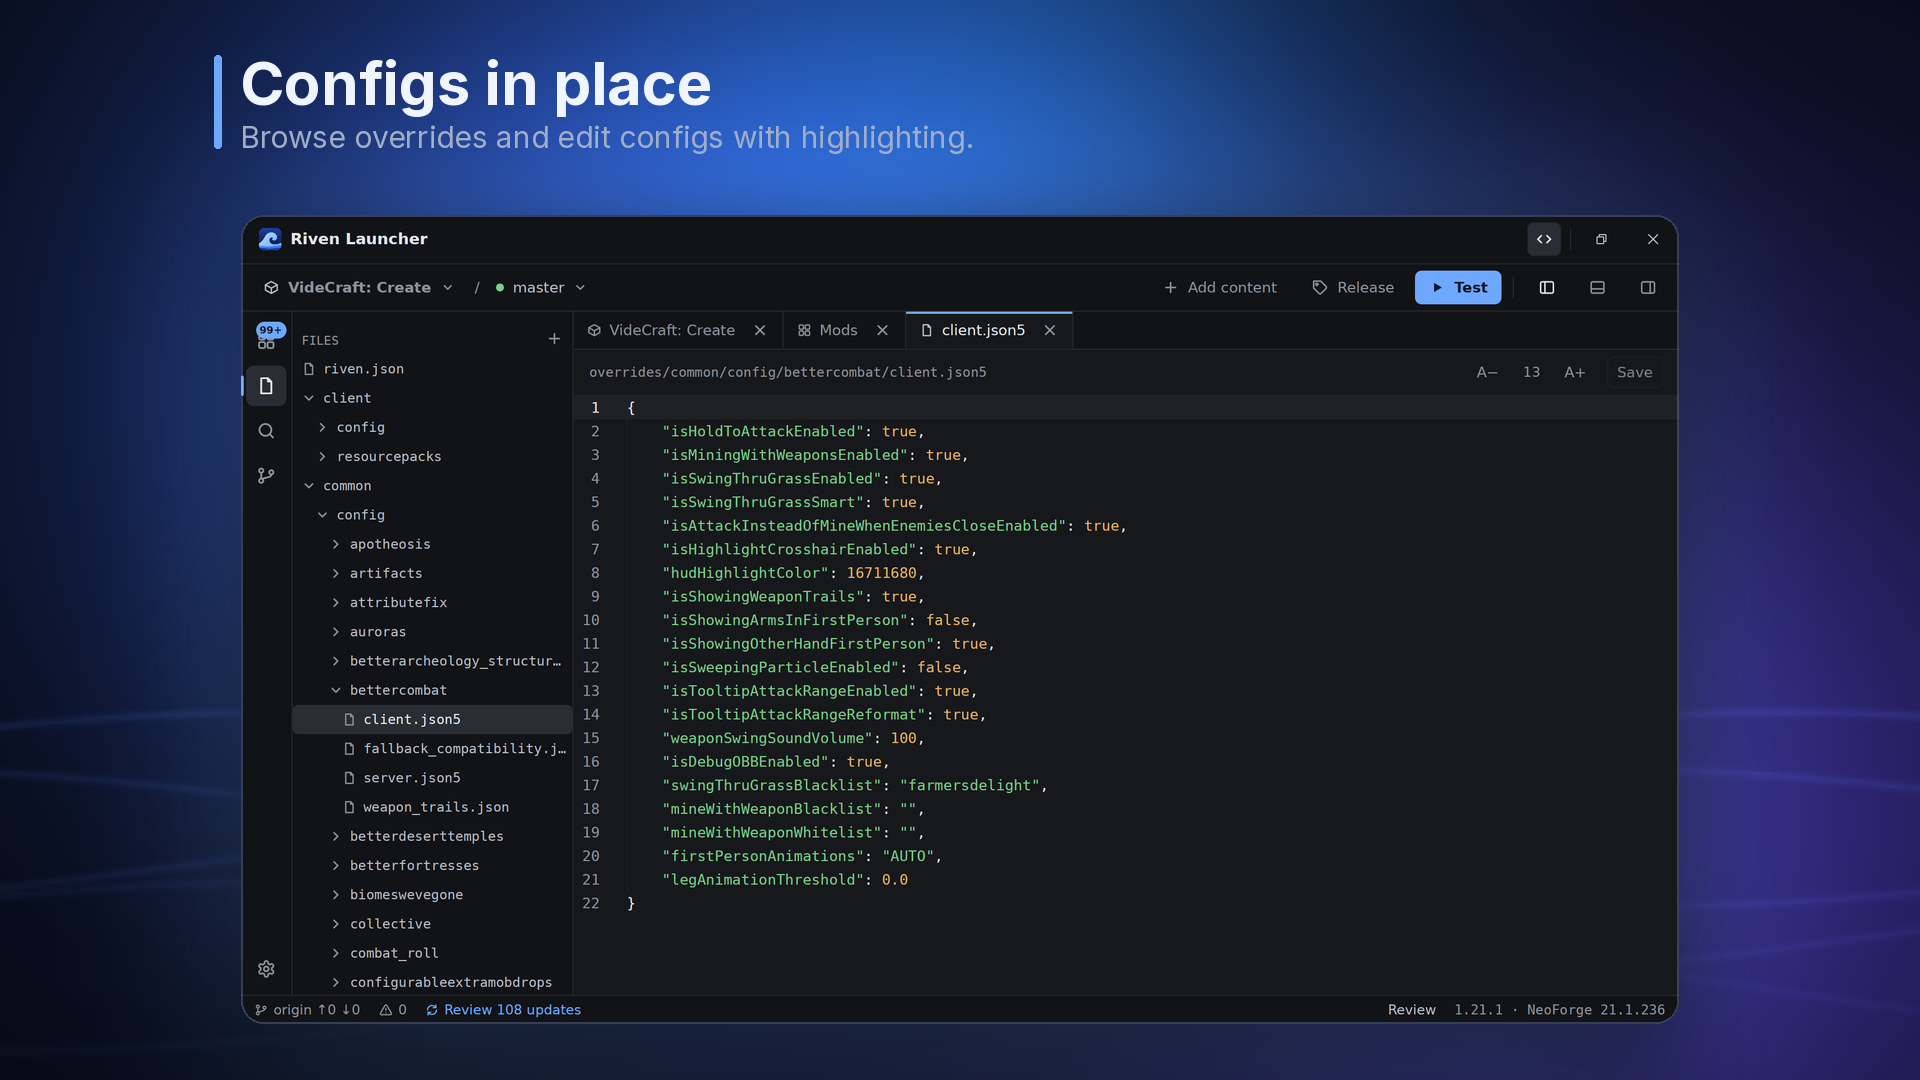
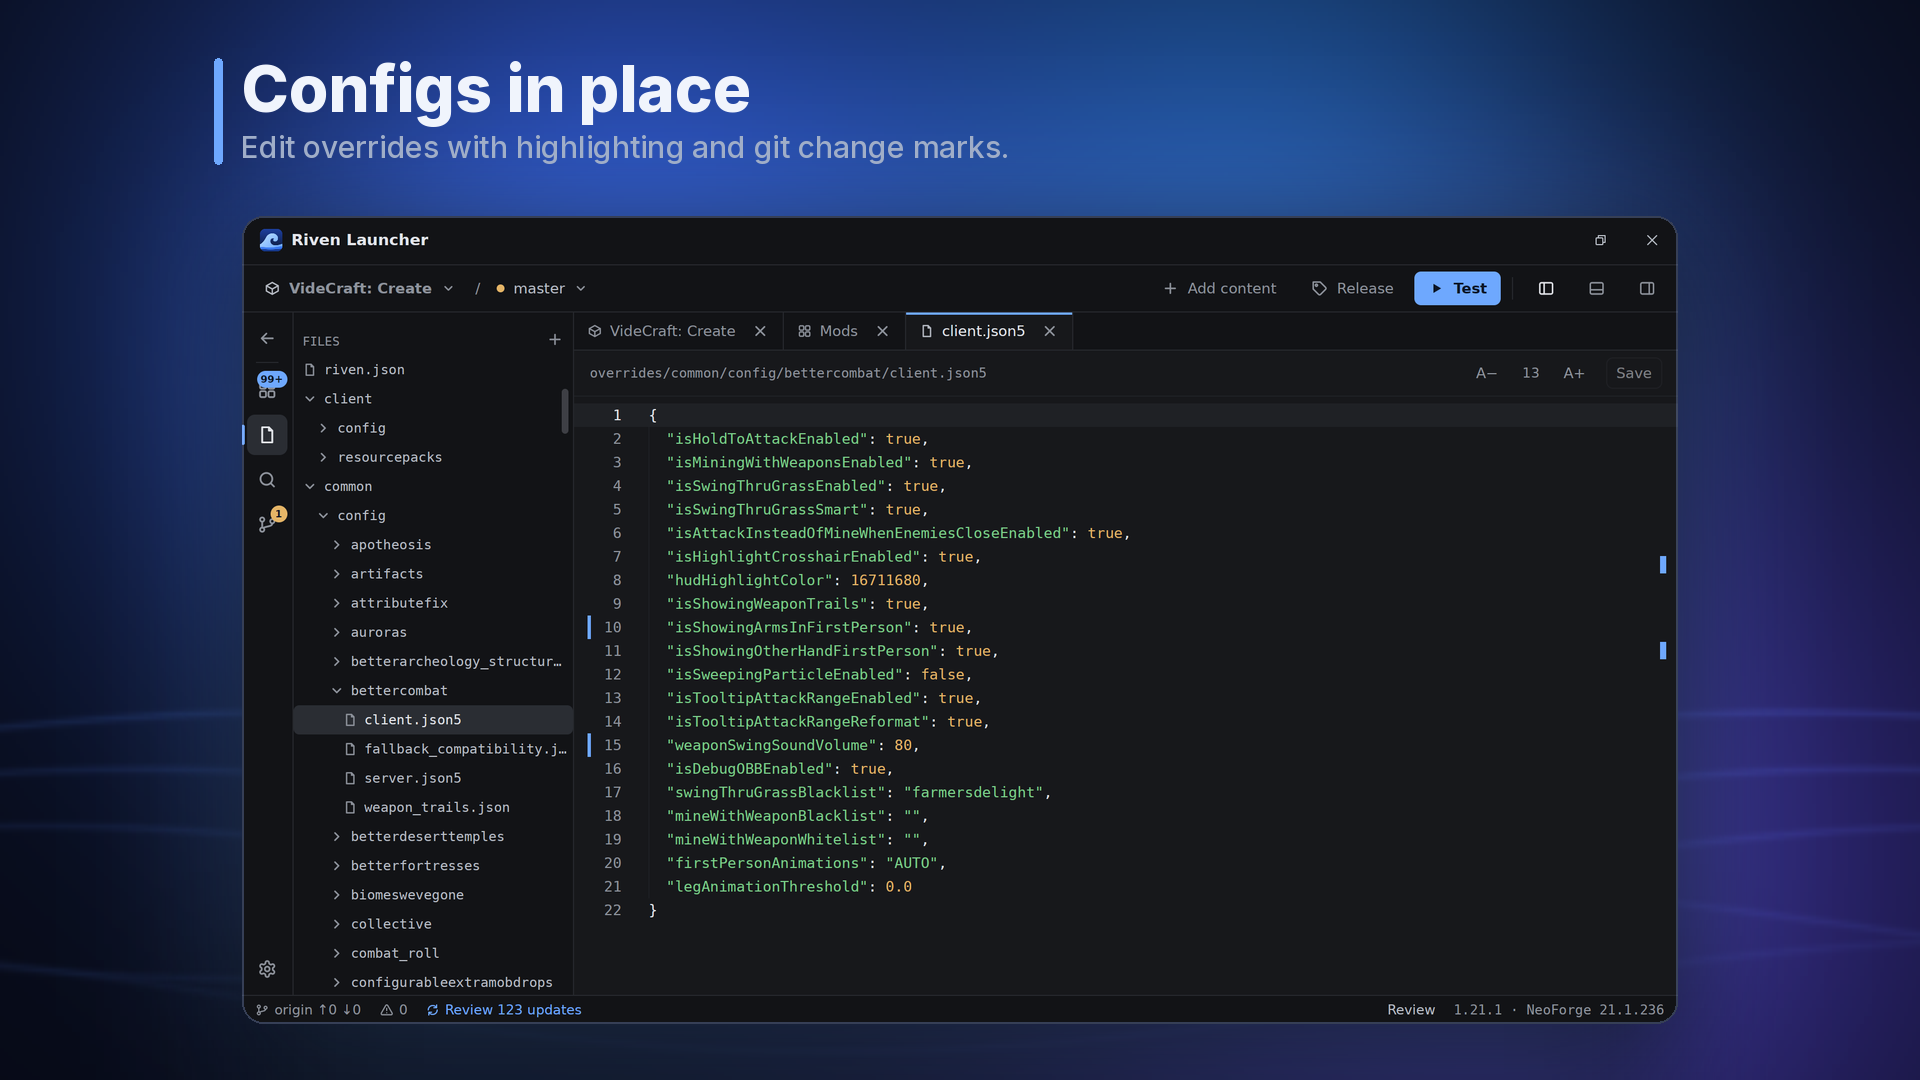
docs(readme): new showcase and live demo

diff --git a/README.md b/README.md
@@ -6,25 +6,26 @@
 
 A native Minecraft launcher and modpack toolkit in pure Rust — install, update and build packs from one app or one CLI.
 
-[![Chat on Discord](https://cdn.jsdelivr.net/npm/@intergrav/devins-badges@3/assets/cozy/social/discord-plural_vector.svg)](https://discord.gg/qNyybSSPm5)
+[![discord](https://cdn.jsdelivr.net/npm/@intergrav/devins-badges@3/assets/cozy/social/discord-plural_vector.svg)](https://discord.gg/qNyybSSPm5)
 [![github](https://cdn.jsdelivr.net/npm/@intergrav/devins-badges@3/assets/cozy/available/github_vector.svg)](https://github.com/BX-Team/Riven)
+[![documentation](https://cdn.jsdelivr.net/npm/@intergrav/devins-badges@3/assets/cozy/documentation/generic_vector.svg)](https://bxteam.org/docs/riven)
 
 </div>
 
 ## 🖼 Showcase
 
-<details>
-<summary>Screenshots</summary>
+**[Try it in your browser](https://bxteam.org/riven)** - project page has a working demo of the launcher that runs completely in your browser. You can look through instances, add mods, change the theme, and press Play.
 
-![Instances and mods](.github/showcase/showcase-instance.png)
-
-![Developer mode](.github/showcase/showcase-developer.png)
-
-![Config editor](.github/showcase/showcase-editor.png)
-
-![Releases](.github/showcase/showcase-releases.png)
-
-</details>
+<table>
+  <tr>
+    <td width="50%"><img src=".github/showcase/showcase-instance.png" alt="Instances and mods" /></td>
+    <td width="50%"><img src=".github/showcase/showcase-modrinth.png" alt="Modpacks from Modrinth" /></td>
+  </tr>
+  <tr>
+    <td width="50%"><img src=".github/showcase/showcase-developer.png" alt="Developer mode" /></td>
+    <td width="50%"><img src=".github/showcase/showcase-editor.png" alt="Config editor" /></td>
+  </tr>
+</table>
 
 ## ✨ Features
 
@@ -136,7 +137,7 @@ This project is licensed under the GPL-3.0-or-later License — see the [LICENSE
 
 ## 💛 Credits
 
-- [zed-industries/zed](https://github.com/zed-industries/zed): Home of the [gpui](https://www.gpui.rs/) GPU-accelerated UI framework Riven is built on.
-- [BX-Team/moonglass](https://github.com/BX-Team/moonglass): BX Team's gpui design system, the look of Riven.
+- [zed-industries/zed](https://github.com/zed-industries/zed): Home of the [gpui](https://www.gpui.rs) GPU-accelerated UI framework Riven is built on.
+- [BX-Team/moonglass](https://github.com/BX-Team/moonglass): Our gpui design system, which provides the look and feel of Riven.
 - [longbridge/gpui-kit](https://github.com/longbridge/gpui-kit): GPUI Base, the behavior under moonglass: text input, popovers, focus, scrollbars.
 - [Modrinth](https://modrinth.com): The content platform Riven searches and installs from.
